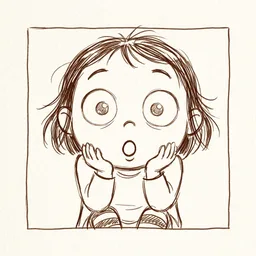
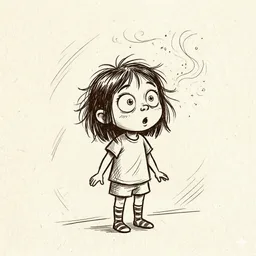
Show a random 20 of the mood catalogue on the end-of-story board
The shared-reading-memory board previously showed a fixed set of 20 moods.
With 11 more illustrations added (and #5/#17 redrawn), expand the catalogue to
31 and have each finish display a random 20 in a random order.

Because the board is a two-device ritual — both readers must pick from the
identical set to reach the required overlap — the random board can't be rolled
per device. The initiator rolls it once and publishes it over the room
(mood/order); the partner renders the same board, and a both-open-at-once race
reconciles to whichever board the room settled on (picks are still empty then).

- moods.js: catalogue grows to ids 1..31 (1..20 kept stable, as ids are stored
  in completion records); add pickMoodBoard() and MOOD_BOARD_COUNT.
- sync.js: startMood/listenMood carry the shared board as mood/order.
- reader.js: initiator rolls and publishes; follower adopts; grid building
  extracted to fillMoodGrid() so it can rebuild in place on reconcile.
- Regenerate all 31 WebP tiles; fix the secretely-moved -> secretly-moved typo.

Changed region(s): [[0.0938, 0.0938, 0.9062, 0.9375], [0.2188, 0.75, 0.2812, 0.8125], [0.7812, 0.625, 0.8125, 0.6562]]

diff --git a/src/reader.js b/src/reader.js
@@ -5,7 +5,7 @@ import { SyncSession, getSessionForBook, closeSyncForBook, getFirebase } from '.
 import { serveBook } from './transfer.js';
 import { exportBook } from './bundle.js';
 import { showAlert } from './dialog.js';
-import { MOODS, moodIconUrl, evaluateLock, MOOD_PICK_COUNT, MOOD_MIN_OVERLAP } from './moods.js';
+import { MOODS, moodById, moodIconUrl, pickMoodBoard, evaluateLock, MOOD_PICK_COUNT, MOOD_MIN_OVERLAP } from './moods.js';
 
 const HIDE_CHROME_AFTER_MS = 2500;
 const CHROME_REVEAL_BAND_PX = 80;
@@ -22,6 +22,12 @@ function pointerColor(id) {
   let h = 0;
   for (let i = 0; i < id.length; i++) h = (h * 31 + id.charCodeAt(i)) >>> 0;
   return POINTER_COLORS[h % POINTER_COLORS.length];
+}
+
+// Two mood boards are the same when their icon ids match in order.
+function sameOrder(a, b) {
+  if (!a || !b || a.length !== b.length) return false;
+  return a.every((id, i) => id === b[i]);
 }
 
 class PdfSource {
@@ -91,6 +97,7 @@ export class ReaderView {
     // mySelection is this device's authoritative picks, moodPartnerPicks mirrors
     // the other participants' picks from Firebase, keyed by clientId.
     this.moodOpen = false;
+    this.moodOrder = null; // the shared board (icon ids), agreed via Firebase
     this.mySelection = new Set();
     this.moodPartnerPicks = {};
     this.moodLockHandled = false;
@@ -722,21 +729,26 @@ export class ReaderView {
   }
 
   // Entry point for both triggers (finish cue, forward-turn). `initiate` is true
-  // for the device that started the ritual: it flags the room so the partner's
-  // mood listener opens the screen too. A device opening in response to that
-  // flag passes false and must not re-flag (which would wipe picks already in).
-  openMood(initiate) {
+  // for the device that started the ritual: it rolls the random board, flags the
+  // room, and publishes that board so the partner's listener opens the same one.
+  // A device opening in response to that flag passes false and the partner's
+  // `order`, and must not re-flag (which would wipe picks already in).
+  openMood(initiate, order) {
     if (this.moodOpen) return;
     const session = this.syncSession;
     if (!session?.roomCode) { this.showEnd(); return; }
     this.moodOpen = true;
     this.moodLockHandled = false;
+    // The board is a random subset of the catalogue; both devices must show the
+    // identical one. The initiator rolls it; a follower adopts what arrived (and
+    // falls back to a fresh roll only if it somehow opened without one).
+    this.moodOrder = (order && order.length) ? order : pickMoodBoard();
     this.mySelection = new Set();
     this.moodPartnerPicks = {};
     this.updateMoodCue();
     this.renderMoodOverlay();
     if (initiate) {
-      session.startMood().catch(() => {});
+      session.startMood(this.moodOrder).catch(() => {});
     }
   }
 
@@ -751,25 +763,7 @@ export class ReaderView {
         <div class="mood-grid"></div>
       </div>
     `;
-    const grid = overlay.querySelector('.mood-grid');
-    for (const mood of MOODS) {
-      const btn = document.createElement('button');
-      btn.type = 'button';
-      btn.className = 'mood-icon';
-      btn.dataset.id = mood.id;
-      btn.setAttribute('aria-pressed', 'false');
-      // The illustration carries the meaning; the label is kept only as the
-      // accessible name (no visible caption), per the screen's design.
-      btn.setAttribute('aria-label', mood.label);
-      btn.innerHTML = `
-        <span class="mood-image-wrap">
-          <img src="${moodIconUrl(mood.slug)}" alt="" draggable="false" />
-          <span class="mood-partner-badge" aria-hidden="true" hidden></span>
-        </span>
-      `;
-      btn.addEventListener('click', () => this.toggleMoodIcon(mood.id));
-      grid.appendChild(btn);
-    }
+    this.fillMoodGrid(overlay.querySelector('.mood-grid'));
     overlay.querySelector('.mood-cancel').addEventListener('click', () => this.cancelMood());
     // Escape would otherwise bubble to the window listener and close the whole
     // reader. Intercept it on capture so it acts on the ritual instead: conclude
@@ -788,6 +782,33 @@ export class ReaderView {
     this.readerEl?.appendChild(overlay);
     this.moodOverlay = overlay;
     this.renderMoodSelections();
+  }
+
+  // Builds the icon buttons for the current shared board (this.moodOrder). Kept
+  // separate from renderMoodOverlay so the board can be rebuilt in place if the
+  // agreed order arrives or changes after the overlay is already on screen.
+  fillMoodGrid(grid) {
+    grid.replaceChildren();
+    for (const id of this.moodOrder || []) {
+      const mood = moodById(id);
+      if (!mood) continue;
+      const btn = document.createElement('button');
+      btn.type = 'button';
+      btn.className = 'mood-icon';
+      btn.dataset.id = mood.id;
+      btn.setAttribute('aria-pressed', 'false');
+      // The illustration carries the meaning; the label is kept only as the
+      // accessible name (no visible caption), per the screen's design.
+      btn.setAttribute('aria-label', mood.label);
+      btn.innerHTML = `
+        <span class="mood-image-wrap">
+          <img src="${moodIconUrl(mood.slug)}" alt="" draggable="false" />
+          <span class="mood-partner-badge" aria-hidden="true" hidden></span>
+        </span>
+      `;
+      btn.addEventListener('click', () => this.toggleMoodIcon(mood.id));
+      grid.appendChild(btn);
+    }
   }
 
   toggleMoodIcon(id) {
@@ -856,9 +877,10 @@ export class ReaderView {
 
   handleMood(data) {
     if (!this.moodOpen) {
-      // The partner opened the ritual: follow them in, without re-flagging.
-      if (data && data.open && !data.lock) this.openMood(false);
-      else if (data && data.lock) { this.openMood(false); this.handleMoodLock(data.lock); }
+      // The partner opened the ritual: follow them in on their board, without
+      // re-flagging.
+      if (data && data.open && !data.lock) this.openMood(false, data.order);
+      else if (data && data.lock) { this.openMood(false, data.order); this.handleMoodLock(data.lock); }
       return;
     }
     if (!data) {
@@ -872,6 +894,16 @@ export class ReaderView {
     if (data.lock) {
       this.handleMoodLock(data.lock);
       return;
+    }
+    // If both devices opened at once they each rolled a board; the node's order
+    // is the one that won. Adopt it so both grids match. This only happens in
+    // that opening race, when no picks are in yet, so rebuilding is harmless.
+    if (data.order && data.order.length && !sameOrder(data.order, this.moodOrder)) {
+      this.moodOrder = data.order;
+      this.mySelection = new Set();
+      const grid = this.moodOverlay?.querySelector('.mood-grid');
+      if (grid) this.fillMoodGrid(grid);
+      this.syncSession?.setMoodPicks([]).catch(() => {});
     }
     this.moodPartnerPicks = {};
     for (const [clientId, ids] of Object.entries(data.picks)) {

diff --git a/src/sync.js b/src/sync.js
@@ -366,6 +366,9 @@ export class SyncSession {
   // who steps away mid-selection leaves the screen open for the other party.
   //   mood/open            : true once either side opens the screen (the signal
   //                          the partner's listener uses to open it too)
+  //   mood/order           : [iconId…] — the random subset of moods this finish
+  //                          shows, in display order. The initiator rolls it once
+  //                          so both devices render the identical board.
   //   mood/picks/{clientId}: { iconId: true } — that side's current selection
   //   mood/lock            : { shared:{id:true}, personal:{id:true}, at } —
   //                          written once, via a transaction, when the picks
@@ -381,9 +384,9 @@ export class SyncSession {
   // or lock from an earlier finish in this room (a re-read starts blank, with no
   // hint of the previous picks) — and, being a single event rather than a
   // remove-then-set, never flashes an empty node past our own listener.
-  async startMood() {
+  async startMood(order) {
     if (!this.roomCode || !this.fb) return;
-    await this.fb.set(this.moodRef(), { open: true });
+    await this.fb.set(this.moodRef(), { open: true, order });
   }
 
   async setMoodPicks(iconIds) {
@@ -417,10 +420,12 @@ export class SyncSession {
     await this.fb.remove(this.moodRef());
   }
 
-  // Streams the whole mood node, parsed into { open, picks, lock }. `picks` maps
-  // each participant's clientId to its array of selected icon ids (our own slot
-  // included, so the caller can reconcile after a reconnect). `lock` is the
-  // resolved record once it exists, or null.
+  // Streams the whole mood node, parsed into { open, order, picks, lock }.
+  // `order` is the shared board (icon ids in display order), or null before the
+  // initiator has written it. `picks` maps each participant's clientId to its
+  // array of selected icon ids (our own slot included, so the caller can
+  // reconcile after a reconnect). `lock` is the resolved record once it exists,
+  // or null.
   listenMood(cb) {
     if (!this.roomCode || !this.fb) return;
     this.stopListeningMood();
@@ -441,7 +446,8 @@ export class SyncSession {
           at: data.lock.at,
         };
       }
-      cb({ open: !!data.open, picks, lock });
+      const order = Array.isArray(data.order) ? data.order.map(Number) : null;
+      cb({ open: !!data.open, order, picks, lock });
     });
   }
 

diff --git a/src/moods.js b/src/moods.js
@@ -24,6 +24,19 @@ export const MOODS = [
   { id: 18, slug: 'silly-serious', label: 'Ernst trotz Quatsch' },
   { id: 19, slug: 'watery-smile', label: 'Lächeln mit Tränen' },
   { id: 20, slug: 'arms-wide-free', label: 'Frei und unbeschwert' },
+  // Added later (the board shows a random MOOD_BOARD_COUNT of the full set);
+  // ids continue from 20 so the earlier ones stay stable in stored records.
+  { id: 21, slug: 'lachkrampf', label: 'Lachkrampf' },
+  { id: 22, slug: 'peeking-through-fingers', label: 'Durch die Finger geschaut' },
+  { id: 23, slug: 'clutched-close-feeling', label: 'Ans Herz gedrückt' },
+  { id: 24, slug: 'one-more-please', label: 'Bitte weiterlesen!' },
+  { id: 25, slug: 'melting-sleepy', label: 'Müde und geborgen' },
+  { id: 26, slug: 'hmmm-not-sure', label: 'Nicht ganz überzeugt' },
+  { id: 27, slug: 'thats-too-much', label: 'Zu viel auf einmal' },
+  { id: 28, slug: 'on-the-edge-lean', label: 'Mitgefiebert' },
+  { id: 29, slug: 'slow-nod-of-getting-it', label: 'Aha, verstanden' },
+  { id: 30, slug: 'warm-and-full', label: 'Wohlig zufrieden' },
+  { id: 31, slug: 'secretly-moved', label: 'Heimlich gerührt' },
 ];
 
 const MOOD_BY_ID = new Map(MOODS.map((m) => [m.id, m]));
@@ -40,6 +53,20 @@ export function moodIconUrl(slug) {
 
 export const MOOD_PICK_COUNT = 4; // each reader selects exactly this many
 export const MOOD_MIN_OVERLAP = 3; // shared moods needed to auto-lock
+export const MOOD_BOARD_COUNT = 20; // icons shown on the board (a random subset)
+
+// Picks `count` mood ids at random, in random order, for one board. The full
+// catalogue is larger than the board, so each finish shows a fresh selection —
+// but BOTH devices must see the same one, so the initiator generates this and
+// shares it over the wire (see Sync.startMood); the partner never rolls its own.
+export function pickMoodBoard(count = MOOD_BOARD_COUNT) {
+  const ids = MOODS.map((m) => m.id);
+  for (let i = ids.length - 1; i > 0; i--) {
+    const j = Math.floor(Math.random() * (i + 1));
+    [ids[i], ids[j]] = [ids[j], ids[i]];
+  }
+  return ids.slice(0, Math.min(count, ids.length));
+}
 
 // Decides whether two readers' selections lock in a completion. Both must have
 // picked exactly MOOD_PICK_COUNT and share at least MOOD_MIN_OVERLAP of them.
